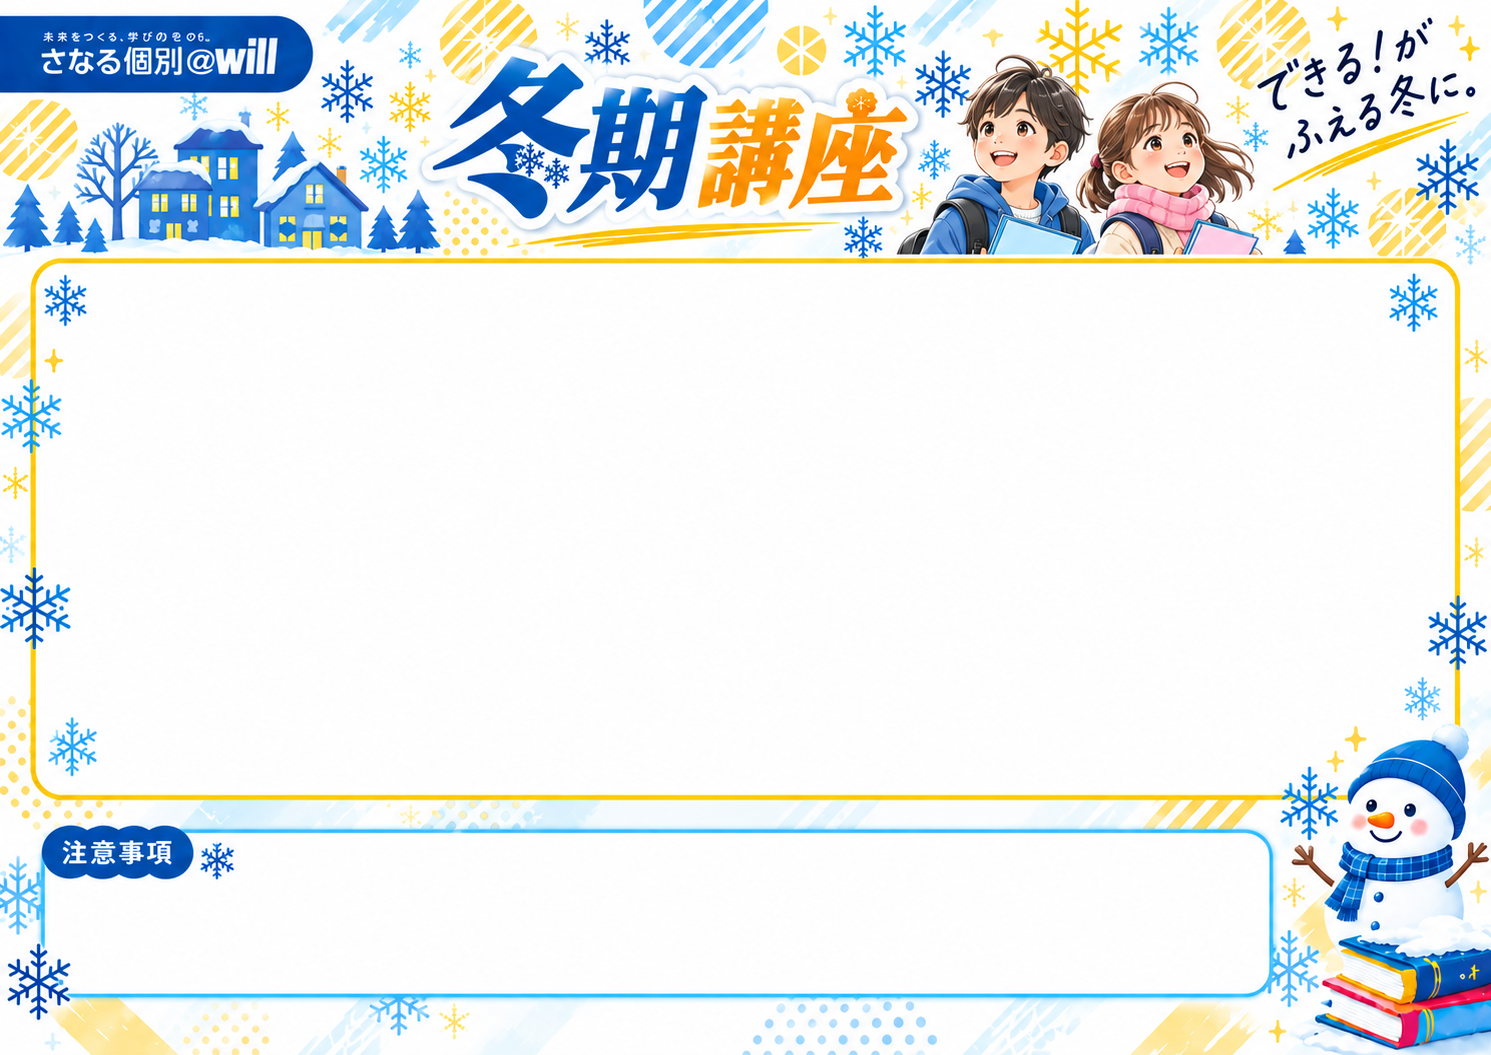
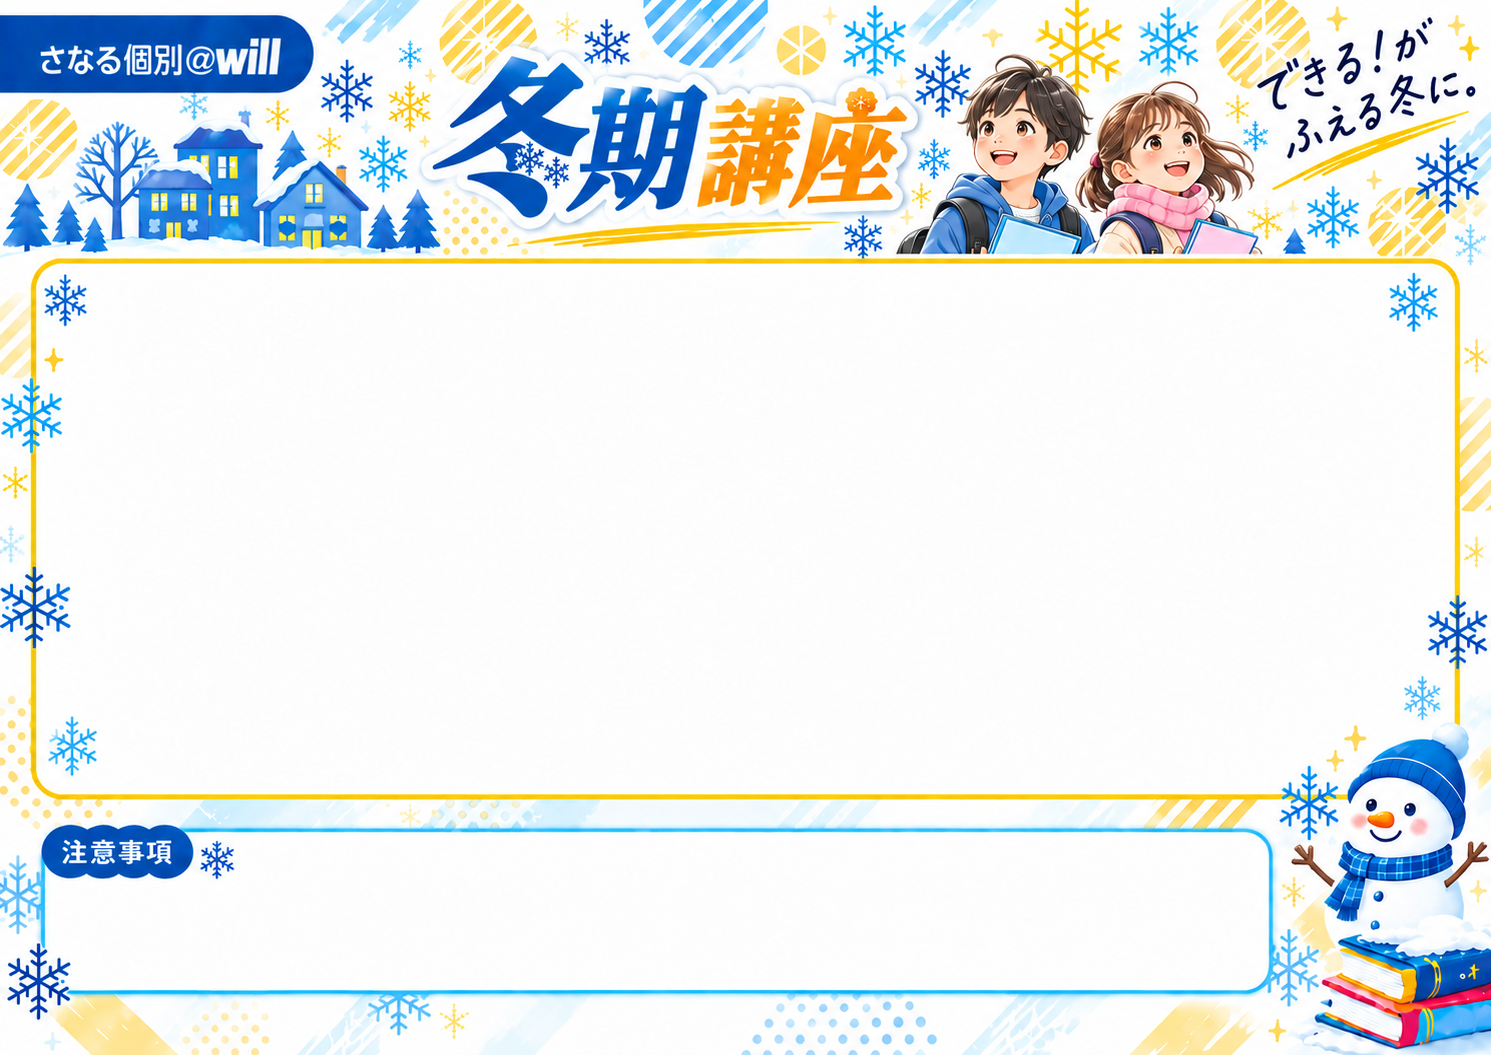
冬期背景を全学齢に追加し小学生の修正版へ差し替え

diff --git a/seasonal-live/course-guide/app.js b/seasonal-live/course-guide/app.js
@@ -71,7 +71,8 @@
     const summer=$('season').value==='summer', first=[...selected][0]||'小4';
     const stage=schoolOf(first)||'elementary', variant=stage==='middle'?(first==='中2'?'middle2':'middle1'):stage;
     $('paper').dataset.layout=summer?variant:'winter';
-    const asset=summer?'summer-'+variant+'.png':'winter-elementary.png';
+    $('paper').dataset.school=stage;
+    const asset=summer?'summer-'+variant+'.png':'winter-'+stage+'.png';
     const src=config.backgrounds?.[asset]||'assets/'+asset;
     if($('background').getAttribute('src')!==src){backgroundReady=false;backgroundFailed=false;$('background').src=src;$('background').alt=(summer?'夏期':'冬期')+'講座 '+(schools.find(s=>s.id===stage)?.name||'')+'用の背景デザイン';}
   }
@@ -84,7 +85,7 @@
     if(failed){unavailable('データを取得できませんでした。接続が回復するまで紙面の出力は停止します。');return;}
     if(!['winter','summer'].includes($('season').value)){unavailable('この季節の背景とプランは準備中です。冬期を選択するとデモを確認できます。');return;}
     if(!selected.size){unavailable('掲載する学年を選択してください。');return;}
-    if([...selected].some((g)=>!(summer?['小4','小5','小6','中1','中2','高1','高2']:['小4','小5','小6']).includes(g))){unavailable('選択した学年の背景またはプランは準備中です。デモは小4〜小6に対応しています。');return;}
+    if([...selected].some((g)=>!(summer?['小4','小5','小6','中1','中2','高1','高2']:['小4','小5','小6','中1','中2','中3','高1','高2','高3']).includes(g))){unavailable('選択した学年の背景またはプランは準備中です。デモは小4〜小6に対応しています。');return;}
     if($('region').value!=='owari'){unavailable('この地域版のプランは準備中です。愛知・尾張を選択するとデモを確認できます。');return;}
     try{
       if(!data||!Array.isArray(data.planRows)||!Array.isArray(data.unitRows)||!Array.isArray(data.noteRows))throw new Error('データの形式を確認してください。');
@@ -93,7 +94,8 @@
       const units=new Map(applicable.filter(r=>summer?r[5]==='紙面掲載':!r[5]&&!r[6]).map(r=>[r[1],Number(r[2])]));
       if(summer&&$('rate-mode').value==='正規')applicable.filter(r=>r[5]==='正規').forEach(r=>units.set(r[1],Number(r[2])));
       const rows=data.planRows.filter((r)=>enabled(r[0])&&(!r[1]||r[1]===label)&&selected.has(r[2])).sort((a,b)=>Number(a[11]||0)-Number(b[11]||0));
-      if(!rows.length||[...selected].some((g)=>!rows.some((r)=>r[2]===g))){unavailable('選択した学年のプランが揃っていません。プランマスターを確認してください。');return;}
+      const missingGrades=[...selected].filter(g=>!rows.some(r=>r[2]===g));
+      $('paper').querySelector('.content').hidden=!rows.length;
       let unknown=false;
       const tbody=$('plans').querySelector('tbody');tbody.replaceChildren();
       rows.forEach((row)=>{
@@ -115,6 +117,7 @@
       const fitted=fit();
       if(backgroundFailed){setStatus('背景画像を読み込めませんでした。紙面の出力を停止しています。','error');return;}
       if(!backgroundReady){setStatus('背景画像を読み込んでいます。');return;}
+      if(missingGrades.length){setStatus(`${summer?'夏期':'冬期'}の${missingGrades.join('・')}のプランが未登録です。背景は取り込み済みです。${summer?'夏期プランマスター':'プランマスター'}に登録すると紙面へ表示されます。`,'warning');return;}
       if(!fitted.fits){setStatus('紙面に収まりません。掲載する学年を減らしてください。内容の欠落を防ぐため出力を停止しています。','error');return;}
       setPrintable(true);setStatus(`${rows.length}件のプランを表示しています。${unknown?'単価未設定のプランは「料金確認中」です。':''} デモ用の紙面としてPDF保存できます。`,unknown?'warning':'');
     }catch(error){unavailable(error.message);}

diff --git a/seasonal-live/course-guide/app.css b/seasonal-live/course-guide/app.css
@@ -22,3 +22,9 @@ td.lesson-description{text-align:left}
 .paper[data-layout]:not([data-layout="winter"]) #plans col:nth-child(4){width:19%!important}
 .paper[data-layout]:not([data-layout="winter"]) #plans col:nth-child(5){width:12%!important}
 .paper[data-layout]:not([data-layout="winter"]) #plans col:nth-child(6){width:43%!important}
+
+.paper[data-layout="winter"][data-school="elementary"] .content{left:5.4%;right:5.4%;top:26.1%;height:46.7%}
+.paper[data-layout="winter"][data-school="middle"] .content{left:6%;right:6%;top:29.3%;height:43.3%}
+.paper[data-layout="winter"][data-school="high"] .content{left:7.5%;right:10%;top:32.7%;height:39.1%}
+.paper[data-layout="winter"][data-school="middle"] .paper-notes{left:6%;right:17%;top:83.5%;height:9.2%}
+.paper[data-layout="winter"][data-school="high"] .paper-notes{left:6%;right:18%;top:83.5%;height:7.1%}
